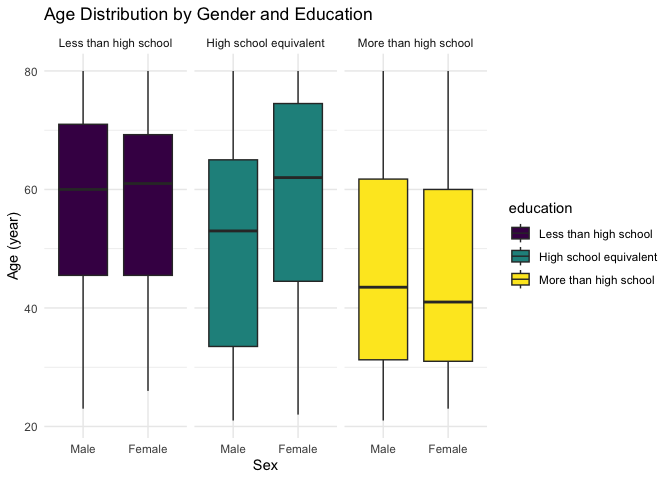
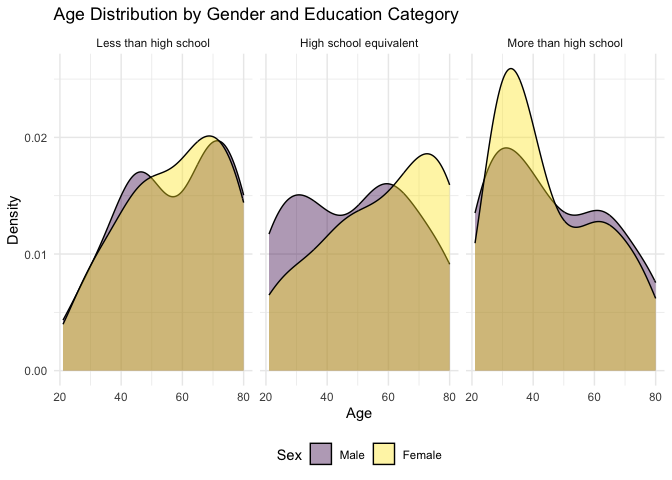
final version

diff --git a/p8105_hw3_dw3093.md b/p8105_hw3_dw3093.md
@@ -189,25 +189,36 @@ each education category
 
 ``` r
 merged_df |>
-  ggplot(aes(x = sex, y = age, fill = education)) +
-  geom_boxplot()+
-  facet_grid(. ~ education) +
-  labs(title = "Age Distribution by Gender and Education", 
-       x = "Sex", 
-       y = "Age (year)")+
-   theme_minimal()
+  ggplot(aes(x = age, fill = sex)) +
+  geom_density(alpha = 0.4)+
+  facet_grid(.~education) +
+  labs(title = "Age Distribution by Gender and Education Category", 
+       x = "Age", 
+       y = "Density",
+       fill = "Sex"
+       )+
+   theme_minimal()+
+  theme(legend.position = "bottom")
 ```
 
 ![](p8105_hw3_dw3093_files/figure-gfm/unnamed-chunk-10-1.png)<!-- -->
-The box plot shows that participants with less than a high school
-education are older, with both males and females having a similar median
-age around 60 years and a narrow age range. In the high school
-equivalent category, males tend to have a slightly higher median age
-compared to females, and both genders show a broader age range, with
-males having a particularly widespread from their 20s to 80s. In the
-more than high school category, males and females have similar age
-distributions, both with a median age of around 60 years, though females
-exhibit a slightly broader range.
+
+The plot shows the age distribution by gender across three education
+categories.
+
+Across all categories, females tend to cluster in older age ranges
+(60-80), especially in the higher education group, while males (purple)
+show a more even spread across ages.
+
+In the less than high school group, both genders peak around ages 60-70,
+with more females in the older range.
+
+The high school equivalent group shows a bimodal pattern for males
+(peaks at 40 and 60) but a more consistent peak for females in older
+ages.
+
+In the more than high school group, females concentrate between 60-70,
+while males have a broader age spread, especially in 20-40.
 
 # Plot total activities vs. age
 
@@ -240,14 +251,17 @@ merged_df |>
   activity levels, but their activity sharply declines after age 60,
   eventually falling below that of males, who show a more gradual
   decline with age.
+
 - In the “high school equivalent” group, females are more active than
   males at younger ages, but their activity decreases more steeply after
   age 50, converging with male levels by age 60. Males exhibit a
   steadier decline across age in this group.
+
 - In the “high school equivalent” and “more than high school” groups,
   females have notably higher activity in their 20s and 30s but diminish
   by age 60, where male and female activity levels converge and decline
   together.
+
 - Overall, females tend to be more active in their younger years, while
   males experience more gradual decreases in activity, often maintaining
   higher levels in older age, particularly in the lower education
@@ -270,14 +284,14 @@ hourly_act <- merged_df |>
 
 ggplot(hourly_act, aes(x = hour, y = activity_level, color = sex)) +
   geom_line(stat = "summary", fun = "mean") +
-  geom_smooth(se = FALSE) +
+  geom_smooth(aes(group = sex), se = FALSE) +
   facet_wrap(~education) +
   scale_x_continuous(breaks = seq(0, 24, by = 3), 
                      labels = c("12", "3", "6", "9", "12", "15", "18", "21", "24")) +
   labs(
     title = "24-Hour Activity Time Courses by Education and Gender", 
     x = "Hour of the Day (24-hour Clock)", 
-    y = "Avg. Activity Level"
+    y = "Mean Activity"
   ) +
   theme_minimal() +
   theme(legend.position = "bottom")
@@ -297,11 +311,7 @@ males throughout the day, especially during the peak activity periods.
 While the overall patterns are similar across education levels,
 individuals with less than a high school education tend to have slightly
 lower activity levels, and those with higher education exhibit more
-sustained and pronounced morning peaks. In conclusion: the trends
-suggest that both gender and education influence daily activity
-patterns, with females generally being more active and higher education
-associated with slightly higher and longer-lasting activity peaks during
-the day.
+sustained and pronounced morning peaks.
 
 ## Question 3
 
@@ -455,13 +465,15 @@ The plot shows that in both 2020 and 2024, July consistently has longer
 median ride durations compared to January, with July rides peaking on
 weekends, especially on Sundays (around 15-17 minutes), which is likely
 due to warmer weather, making cycling more appealing and leading to
-longer rides. In contrast, January rides are shorter, staying fairly
-stable across weekdays, ranging between 7.5 to 10 minutes. Both years
-show a pattern of longer rides on weekends for July, indicating that
-riders tend to take longer leisure rides on weekends, whereas January
-rides are likely more commuter-focused and uniform across the week. The
-trends from 2020 to 2024 are quite similar, suggesting steady Citi Bike
-usage patterns over time.
+longer rides.
+
+In contrast, January rides are shorter, staying fairly stable across
+weekdays, ranging between 7.5 to 10 minutes. Both years show a pattern
+of longer rides on weekends for July, indicating that riders tend to
+take longer leisure rides on weekends, whereas January rides are likely
+more commuter-focused and uniform across the week. The trends from 2020
+to 2024 are quite similar, suggesting steady Citi Bike usage patterns
+over time.
 
 \#make a figure that shows the impact of month, membership status, and
 bike type on the distribution of ride duration for data in 2024
@@ -487,3 +499,15 @@ citi_merged |>
 ```
 
 ![](p8105_hw3_dw3093_files/figure-gfm/unnamed-chunk-17-1.png)<!-- -->
+July has longer ride durations compared to January across all bike types
+and membership categories, which is likely due to warm weather being
+more suitable for cycling.
+
+Casual riders tend to have longer ride durations compared to members.
+This is particularly noticeable for both classic and electric bikes,
+where casual riders’ distributions show longer tails, indicating a
+higher frequency of longer rides. Members have a more concentrated
+distribution with shorter rides, especially for electric bikes.
+
+Electric bikes generally have longer ride durations than classic bikes,
+as shown by the distributions having longer tails.
